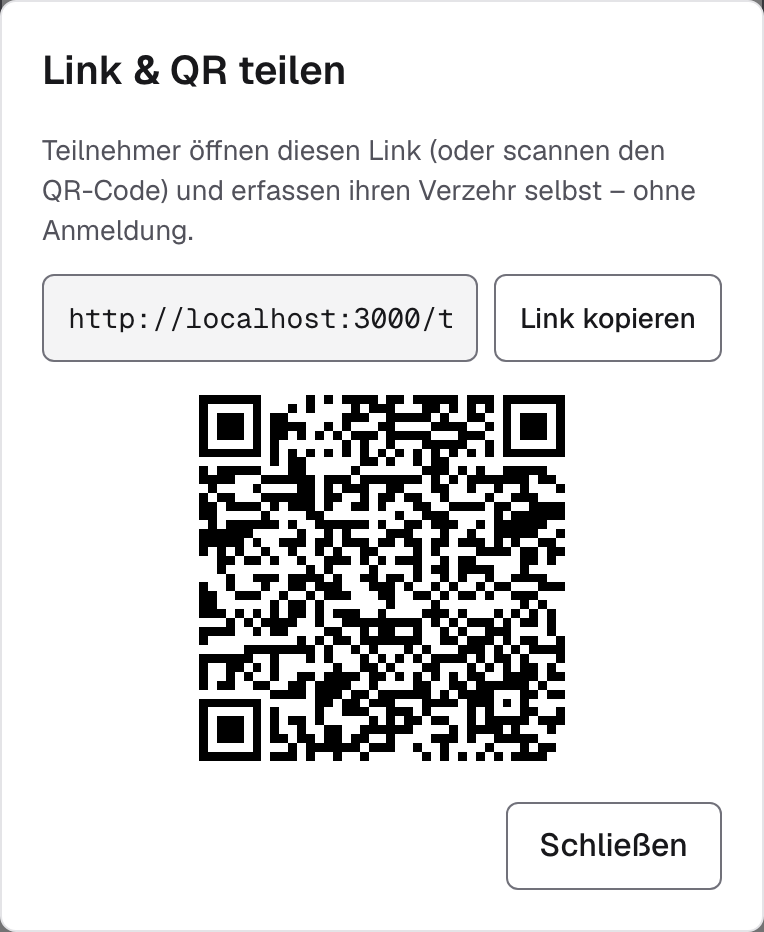
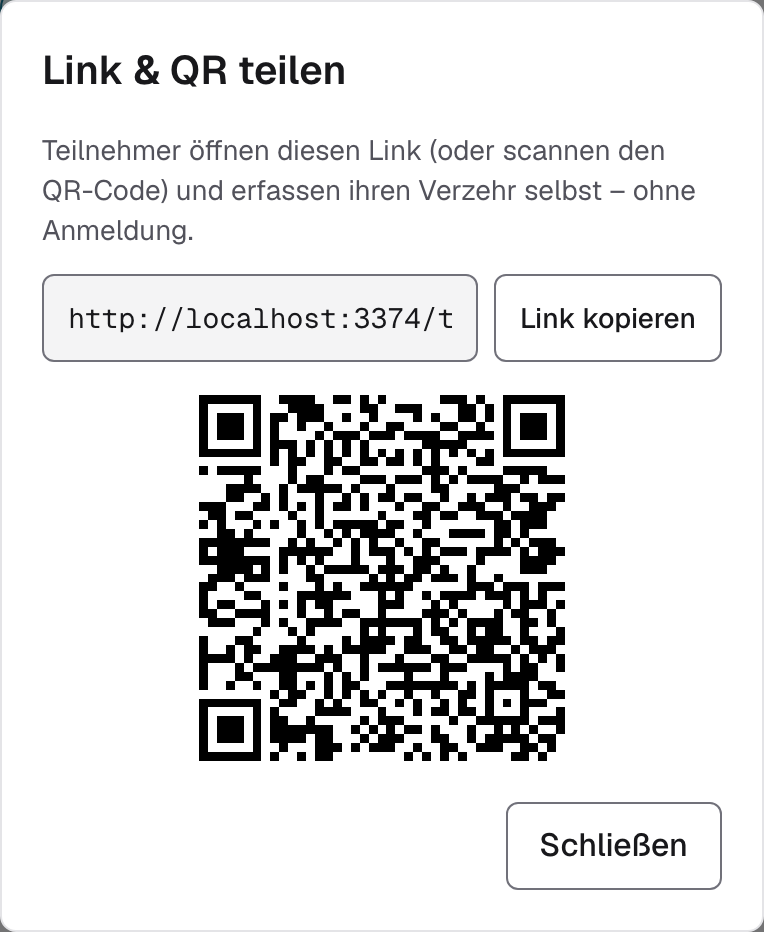
docs: anleitung und screenshots für header, startseite und zurück-navigation aktualisieren (#374)

Changed region(s): [[0.2408, 0.4045, 0.7526, 0.8401], [0.4817, 0.3112, 0.5419, 0.3734], [0.9935, 0.0, 1.0, 0.0311]]

diff --git a/docs/anleitung/veranstalter/anleitung.md b/docs/anleitung/veranstalter/anleitung.md
@@ -6,7 +6,7 @@ Diese Anleitung führt Sie Schritt für Schritt durch eine komplette Veranstaltu
 bis zum Abschlussbericht. Sie ist für alle gedacht, die **wenig Erfahrung mit Apps** haben.
 Jeder Schritt erklärt kurz: **Was tue ich?** und **Was passiert dann?**
 
-> **Stand: 24. Juli 2026.** Die Bilder zeigen die App zu diesem Zeitpunkt. Wird die App später
+> **Stand: 5. Oktober 2026.** Die Bilder zeigen die App zu diesem Zeitpunkt. Wird die App später
 > geändert, können einzelne Bildschirme etwas anders aussehen – der Ablauf bleibt gleich. Wer die
 > App pflegt, findet am Ende unter **„Bilder aktualisieren"**, wie die Screenshots neu erzeugt
 > werden.
@@ -55,13 +55,27 @@ Jeder Schritt erklärt kurz: **Was tue ich?** und **Was passiert dann?**
 **Was tue ich?** Öffnen Sie die App. Geben Sie Ihre **E-Mail** und Ihr **Passwort** ein und tippen
 Sie auf **„Anmelden"**.
 
-**Was passiert?** Sie landen auf der Startseite mit den Bereichs-Kacheln.
+**Was passiert?** Sie landen auf der Startseite mit den offenen Veranstaltungen und den
+Bereichs-Kacheln.
 
 ![Anmeldebildschirm mit den Feldern E-Mail und Passwort und der Schaltfläche „Anmelden".](bilder/01-anmelden.png)
 
-Nach dem Anmelden sehen Sie die Startseite. Tippen Sie auf die Kachel **„Veranstaltungen"**.
+Nach dem Anmelden sehen Sie die Startseite. Oben steht die **Kopfzeile**: links das **Menü-Symbol**
+(drei Striche) und der Name **„TCH Gastro Services"**, rechts das **Konto-Symbol** (Person). Ein Tipp
+auf den Namen bringt Sie von jeder Seite **zurück zur Startseite**.
 
-![Startseite mit den Kacheln „Veranstaltungen", „Katalog" und „Teilnehmer".](bilder/02-startseite.png)
+Darunter zeigt der Bereich **„Offene Veranstaltungen"** alle Veranstaltungen, die noch laufen – mit
+einem Tipp öffnen Sie eine davon direkt. Gibt es keine, steht dort **„Keine offene Veranstaltung."**
+mit der Schaltfläche **„Veranstaltung anlegen"**. Darunter folgen die Kacheln. Tippen Sie auf die
+Kachel **„Veranstaltungen"**.
+
+![Startseite mit Kopfzeile, dem Hinweis „Keine offene Veranstaltung." und den Kacheln „Veranstaltungen", „Katalog" und „Teilnehmer".](bilder/02-startseite.png)
+
+**Abmelden:** Tippen Sie in der Kopfzeile auf das **Konto-Symbol**. Es öffnet sich ein kleines Menü
+mit Ihrer E-Mail-Adresse und der Schaltfläche **„Abmelden"**. Ein Tipp außerhalb des Menüs oder die
+Taste *Esc* schließt es wieder.
+
+![Geöffnetes Konto-Menü unter dem Konto-Symbol mit E-Mail-Adresse und der Schaltfläche „Abmelden".](bilder/02b-konto-menue.png)
 
 > Sehen Sie die Kachel **„Veranstaltungen"** nicht? Dann fehlt Ihrem Konto die Rolle
 > *Veranstalter* – wenden Sie sich an den Verwalter (siehe unten).
@@ -84,14 +98,19 @@ Status **„offen"**.
 > Die **„Stehende Theke"** darunter müssen Sie in der Regel **nicht** einrichten – sie ist für die
 > dauerhaft offene Theke gedacht und meist schon vorhanden.
 
-Tippen Sie in der Liste auf den Namen der Veranstaltung, um sie zu **öffnen**.
+Tippen Sie in der Liste auf den Namen der Veranstaltung, um sie zu **öffnen**. Auf der Startseite
+erscheint die neue Veranstaltung außerdem sofort unter **„Offene Veranstaltungen"** – das ist der
+kürzeste Weg zurück zu ihr.
+
+![Startseite mit der Veranstaltung „Montagsrunde" unter „Offene Veranstaltungen".](bilder/04b-startseite-offene-veranstaltung.png)
 
 ---
 
 ## Schritt 3 – Veranstaltung führen (Teilnehmer erfassen)
 
-Auf der Veranstaltungs-Seite steuern Sie alles Weitere. Unter dem Titel stehen drei **Kacheln**
-– **„Verzehr"**, **„Auslagen"** und **„Kassieren"** – mit je einer Kurzkennzahl (Verzehr-Summe,
+Auf der Veranstaltungs-Seite steuern Sie alles Weitere. Über dem Titel führt **„← Alle
+Veranstaltungen"** zurück zur Liste. Unter dem Titel stehen drei **Kacheln** – **„Verzehr
+erfassen"**, **„Auslagen erfassen"** und **„Kassieren"** – mit je einer Kurzkennzahl (Verzehr-Summe,
 Auslagen-Summe, „x von n bezahlt"). Ein Tipp auf eine Kachel führt zum jeweiligen Schritt. Darunter
 folgt die Liste der **Teilnehmer**.
 
@@ -109,7 +128,7 @@ bei Bedarf in eine zweite Zeile:
 
 Bei einer abgeschlossenen Veranstaltung fehlen die drei Symbole; dort steht nur **„Wieder öffnen"**.
 
-![Übersicht der Veranstaltung mit „Veranstaltung abschließen" und den Symbolen Teilen, Zahnrad und Papierkorb im Kopf, den Kacheln „Verzehr", „Auslagen" und „Kassieren" und der Teilnehmerliste.](bilder/05-veranstaltung-fuehren.png)
+![Übersicht der Veranstaltung mit „Veranstaltung abschließen" und den Symbolen Teilen, Zahnrad und Papierkorb im Kopf, den Kacheln „Verzehr erfassen", „Auslagen erfassen" und „Kassieren" und der Teilnehmerliste.](bilder/05-veranstaltung-fuehren.png)
 
 **Was tue ich?** Tippen Sie neben der Überschrift **„Teilnehmer"** auf **„+ Teilnehmer"**. Es öffnet
 sich ein Fenster mit zwei Bereichen:
@@ -142,7 +161,8 @@ einen **Link** (mit **„Link kopieren"**) und einen **QR-Code**.
 
 ## Schritt 4 – Verzehr erfassen
 
-**Was tue ich?** Tippen Sie auf die Kachel **„Verzehr"**. Die Erfassung zeigt immer **einen**
+**Was tue ich?** Tippen Sie auf die Kachel **„Verzehr erfassen"**. Über dem Titel führt
+**„← Zur Veranstaltung"** zurück zur Übersicht. Die Erfassung zeigt immer **einen**
 Teilnehmer: Oben wählen Sie ihn über die Namensleiste aus, darunter wählen Sie die Kategorie
 (**Getränke**, **Kaffee**, **Essen**). Erhöhen oder verringern Sie je Artikel die Menge mit den
 Schaltflächen **„+"** und **„−"**. Mit **„Nächste Person →"** am unteren Rand geht es zum nächsten
@@ -150,10 +170,10 @@ Teilnehmer – die gewählte Kategorie bleibt dabei stehen. Ein Punkt am Namen z
 erfasst hat.
 
 **Was passiert?** Die Mengen werden sofort gespeichert; oben neben dem Namen stehen der
-**Gesamtbetrag** und darunter die Summen für Getränke, Kaffee und Essen. Über **„Kassieren →"**
+**Gesamtbetrag** und darunter die Summen für Getränke, Kaffee und Essen. Über **„Kassieren"**
 unten gelangen Sie direkt zum Kassieren dieses Teilnehmers.
 
-![Verzehr-Erfassung: Namensleiste oben, darunter Name und Gesamtbetrag, Kategorie-Umschalter, Artikel mit Plus/Minus und unten „Kassieren →" und „Nächste Person →".](bilder/08-verzehr.png)
+![Verzehr-Erfassung: Namensleiste oben, darunter Name und Gesamtbetrag, Kategorie-Umschalter, Artikel mit Plus/Minus und unten „Kassieren" und „Nächste Person →".](bilder/08-verzehr.png)
 
 > **Selbstbedienung:** Statt alles selbst einzutippen, können die Teilnehmer ihren Verzehr über den
 > **Link/QR-Code** aus [„Zugang teilen"](#zugang-teilen-selbstbedienung) selbst erfassen – ohne
@@ -166,7 +186,8 @@ unten gelangen Sie direkt zum Kassieren dieses Teilnehmers.
 Hat jemand etwas **vorgestreckt** (z. B. Getränke gekauft), erfassen Sie das hier. Auslagen sind
 ein **eigener Vorgang** und werden **nicht** mit dem Verzehr verrechnet.
 
-**Was tue ich?** Tippen Sie auf die Kachel **„Auslagen"**. Wählen Sie den **Teilnehmer** und die
+**Was tue ich?** Tippen Sie auf die Kachel **„Auslagen erfassen"**. Über dem Titel führt
+**„← Zur Veranstaltung"** zurück zur Übersicht. Wählen Sie den **Teilnehmer** und die
 **Kategorie** (Getränke, Essen oder Sonstiges), tragen Sie den **Betrag (EUR)** ein (z. B. „15,00"),
 optional eine **Notiz**, und tippen Sie auf **„Auslage erfassen"**.
 
@@ -259,7 +280,9 @@ pnpm db:up
 # (optional, für ganz saubere Bilder: DEV-Daten leeren, dann neu seeden)
 pnpm db:seed
 
-# 2. Screenshots erzeugen (fährt den kompletten Veranstalter-Workflow durch)
+# 2. Screenshots erzeugen (fährt den kompletten Veranstalter-Workflow durch). Die Spec erwartet
+#    eine Datenbank ohne offene Veranstaltung (Bild 02 zeigt „Keine offene Veranstaltung.") –
+#    am besten gegen eine eigene Wegwerf-DB laufen lassen.
 CAPTURE_ANLEITUNG=1 pnpm exec dotenv -e .env.local -- playwright test e2e/anleitung-veranstalter.spec.ts
 ```
 

diff --git a/tasks/task-374-header-startseite-zurueck-navigation.md b/tasks/task-374-header-startseite-zurueck-navigation.md
@@ -7,7 +7,7 @@
 - [x] Security-Review bestanden
 - [x] Refactoring abgeschlossen
 - [x] Codify ausgeführt
-- [ ] Fertig / PR erstellt
+- [x] Fertig / PR erstellt
 
 ## Beschreibung
 Header mit Wortmarke und Konto-Menü, Startseite mit offenen Veranstaltungen, `PublicHeader` auf `/theke/[token]`, einheitlicher `PageHeader` samt Zurück-Link auf Unterseiten, Kacheln „Verzehr erfassen"/„Auslagen erfassen". Spec: `docs/specs/spec-374-header-startseite-zurueck-navigation.md`.
@@ -19,7 +19,7 @@ Header mit Wortmarke und Konto-Menü, Startseite mit offenen Veranstaltungen, `P
 - [x] AK3.1–3.4 `PublicHeader` auf `/theke/[token]` (nicht bei ungültigem Token, nicht auf `/login`)
 - [x] AK4.1–4.7 `PageHeader` + Zurück-Link auf Verzehr/Auslagen; Titel-Header auf Liste/Teilnehmer/Katalog-Index; „Kassieren" ohne Pfeil
 - [x] AK5.1–5.3 Kacheln „Verzehr erfassen"/„Auslagen erfassen"
-- [ ] AK5.4 Anleitung + Screenshots aktualisiert – erst nach erfolgreichem `/implement` und `/review`
+- [x] AK5.4 Anleitung + Screenshots aktualisiert – erst nach erfolgreichem `/implement` und `/review`
 - [x] AK6 Lint, Tests, `routes-doc-check` grün; `docs/routes.md` aktuell
 - [x] AK7 `docs/ux/ux-issue-entwuerfe.md` UX-7 angeglichen (in `/requirements` erledigt)
 
@@ -73,6 +73,17 @@ ADR: `docs/adr/057-header-konto-menue-startseite-oeffentlicher-header.md` (ergä
   Konsequenzen und D4 trägt die `auth()`-/Session-Bedingung.
 - Bewusst offen (nicht Refactoring, gehört zu AK5.4/Doku): die übrigen Nitpicks (Popover-Abstand zum `StageBanner`, Light-Dismiss-Fokus
   im E2E, `Kassieren →`-Fixtures in `VerzehrEinzelansicht.test.tsx`).
+
+### Notizen aus AK5.4 und Merge (2026-10-05)
+- `origin/main` (#392, ADR „Detailseite-Kopfaktionen") per Merge eingebracht; einziger Konflikt war
+  ein Kommentar in `e2e/anleitung-veranstalter.spec.ts`. Die Header-ADR dieser Task heißt jetzt
+  **ADR-057** (die `056` gehört #391); alle #374-Verweise sind nachgezogen, die #391-Verweise blieben.
+- Bilder per Capture-Spec gegen eine Wegwerf-DB neu erzeugt (`01`–`12` plus neu `02b-konto-menue`
+  und `04b-startseite-offene-veranstaltung`); eigener Dev-Server auf Port 3374, Wegwerf-DB danach
+  gelöscht, `tch_dev` unberührt. `anleitung.md` auf Kopfzeile, Konto-Menü/Abmelden, Startseite,
+  „Verzehr erfassen"/„Auslagen erfassen", Zurück-Links und „Kassieren" ohne Pfeil angepasst.
+- `anleitung.pdf` (manueller Browser-Druck, #221) ist wie schon bei #388 **nicht** neu erzeugt und
+  zeigt noch den alten Stand – bei Bedarf per VS-Code-Vorschau nachdrucken.
 
 ## Offene Fragen
 _Keine._ Geklärt: Anleitung/Screenshots im selben PR nach erfolgreicher Implementierung + Review (AK5.4); Sortierung bei gleichem Datum nach Anlage-Zeit.
